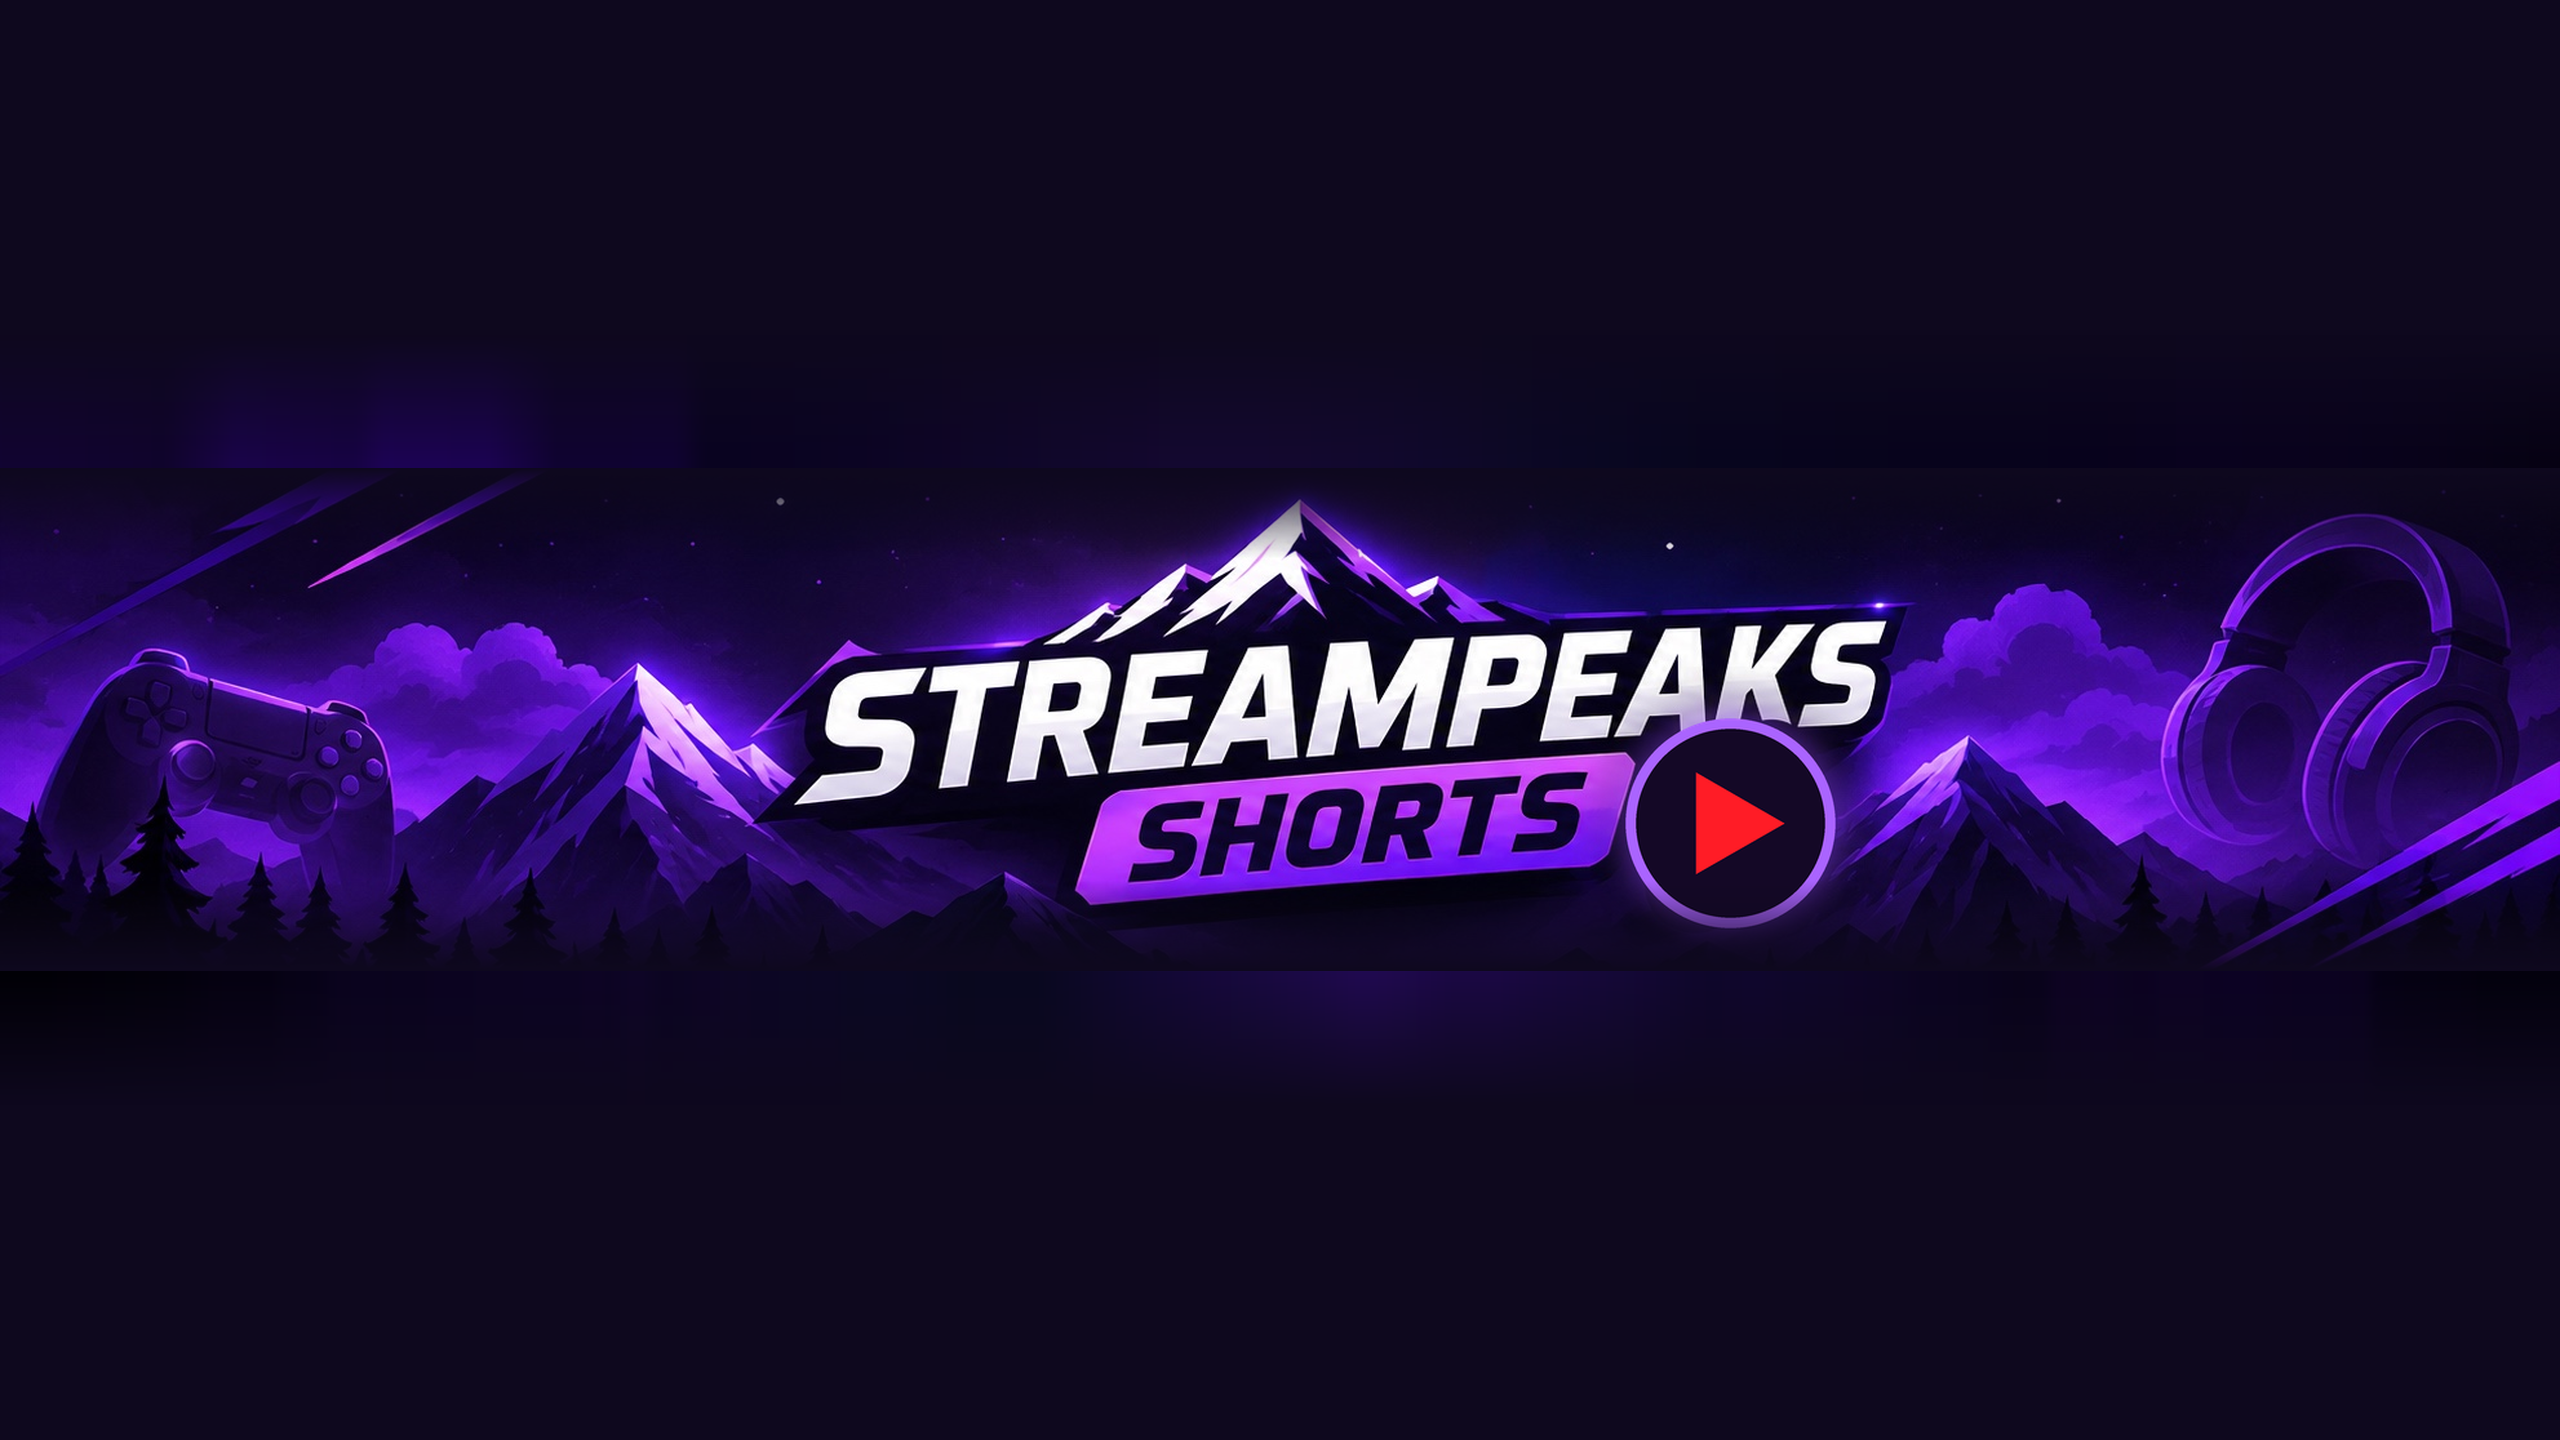
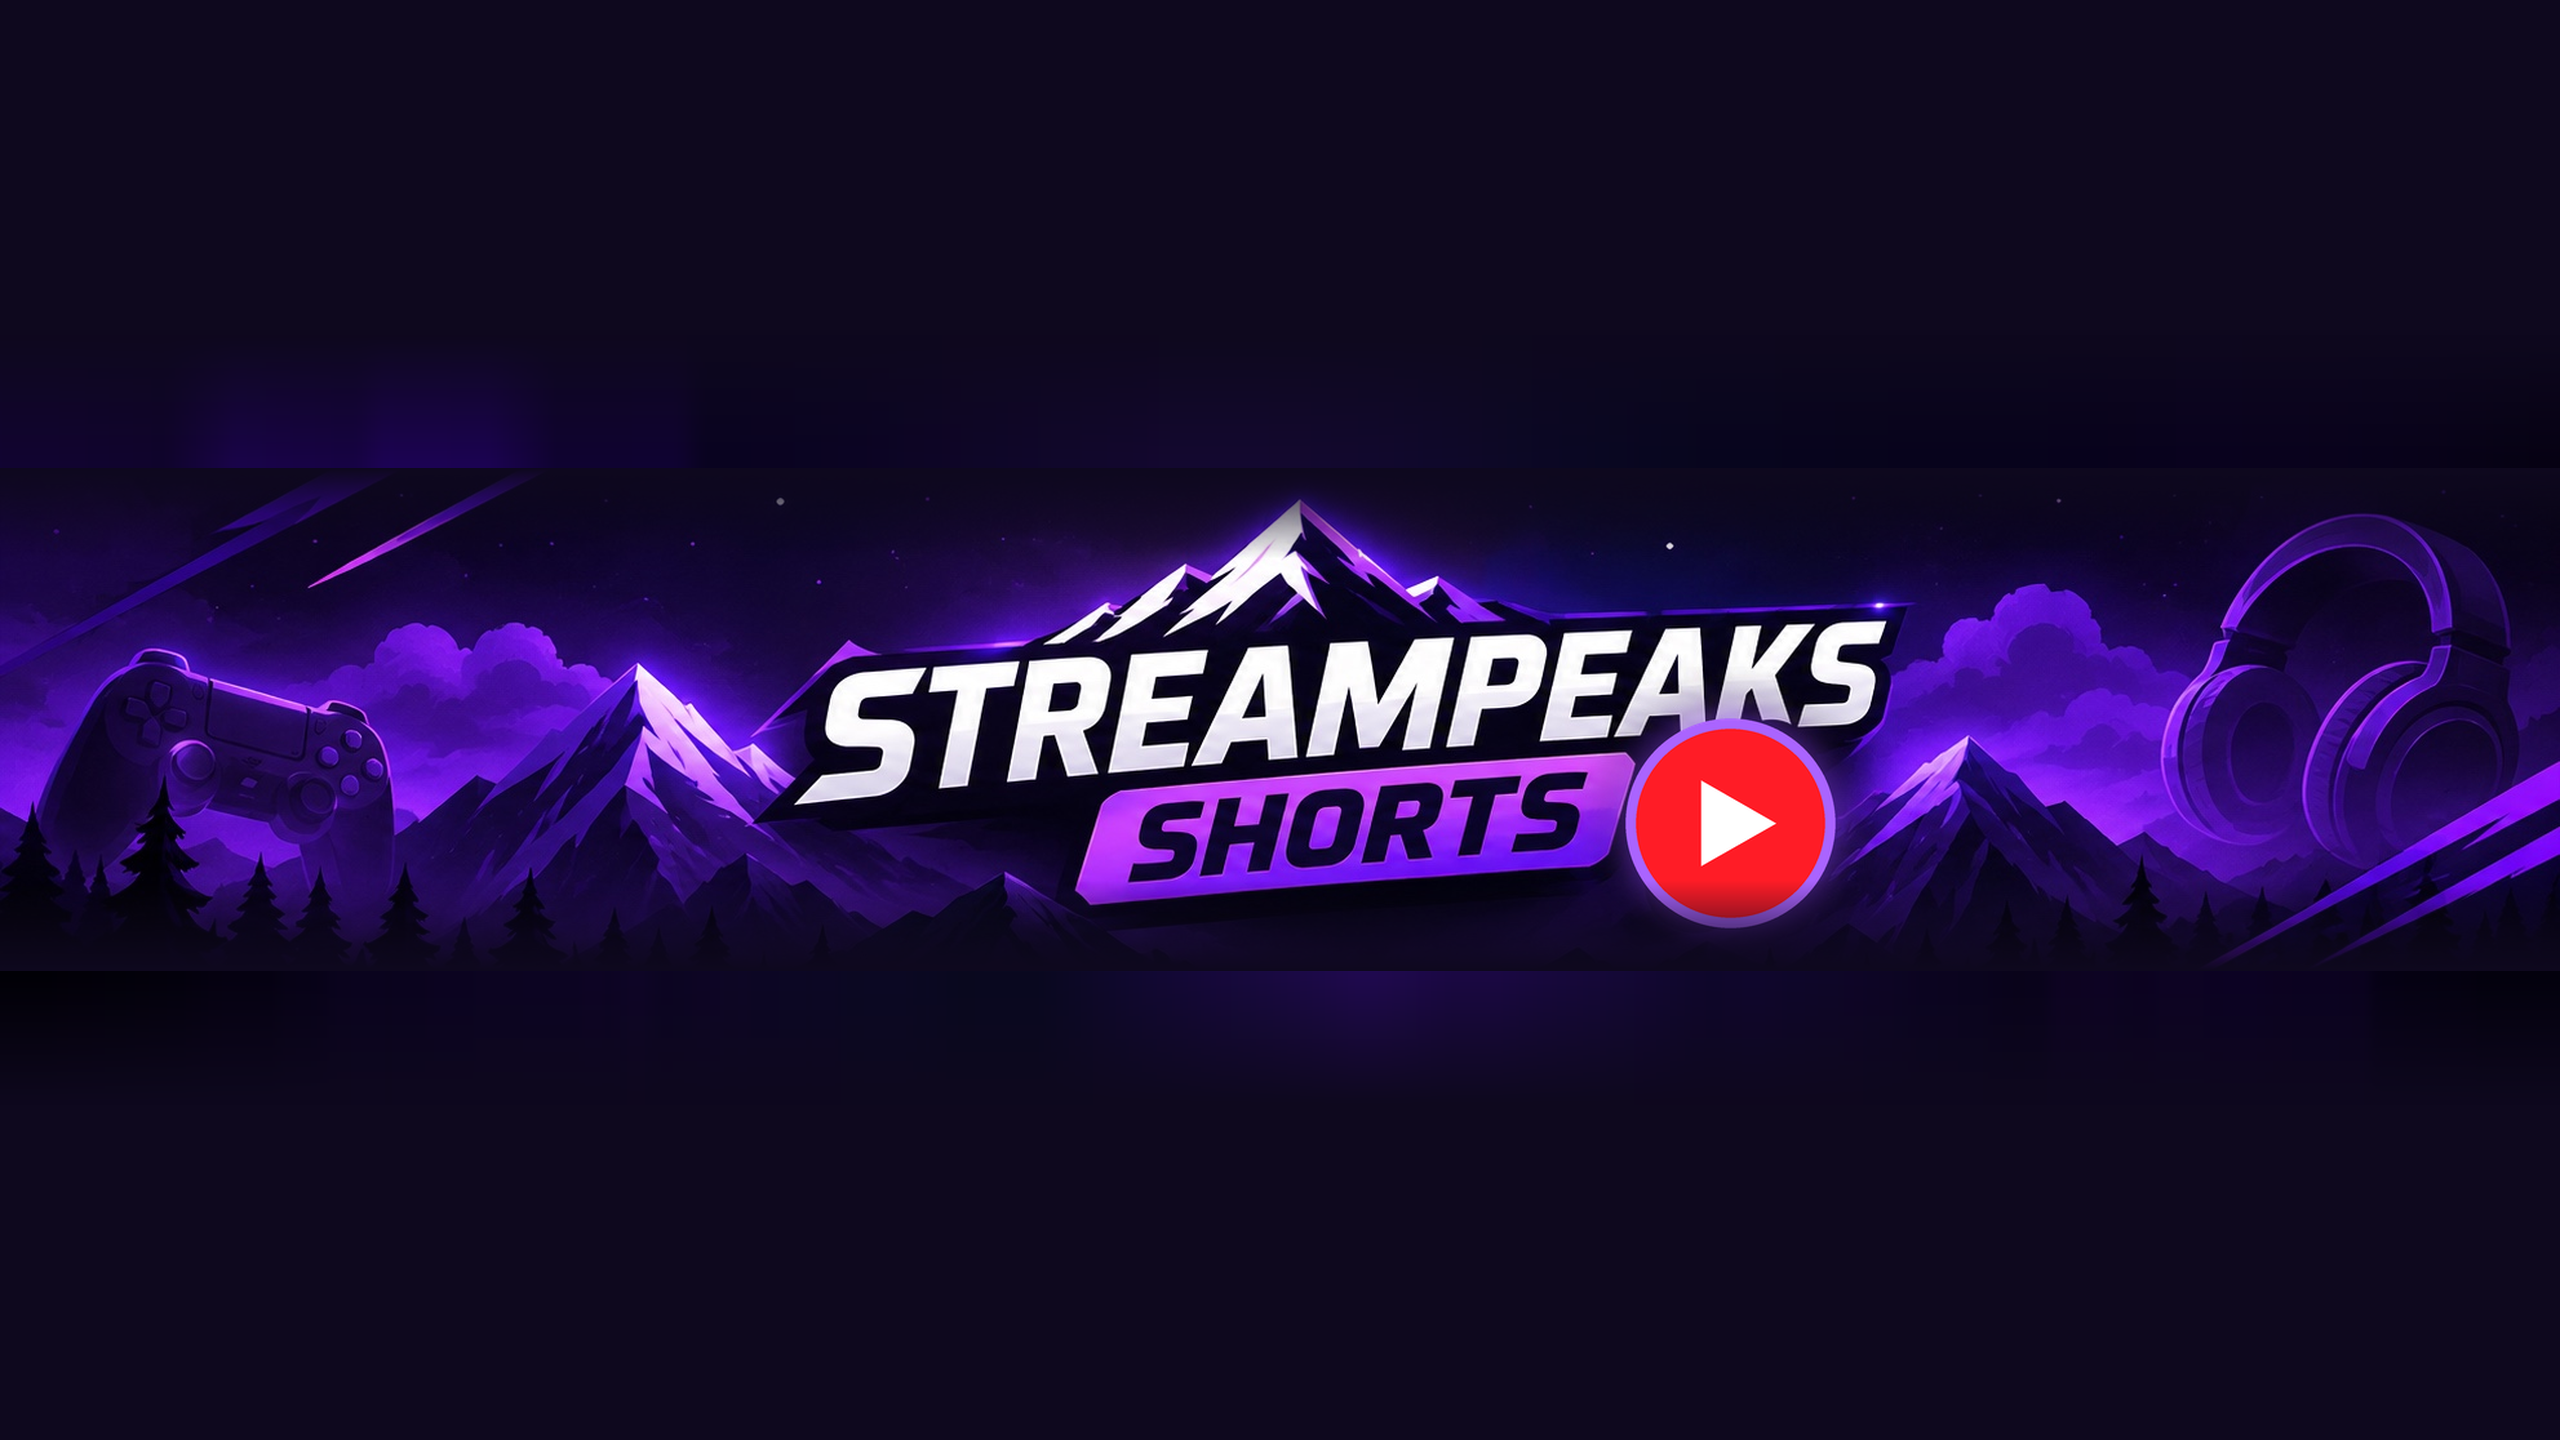
Branding: white play arrow on a red badge

Changed region(s): [[0.625, 0.5, 0.7188, 0.6562]]

diff --git a/gta6-clips/branding/fit_banner.py b/gta6-clips/branding/fit_banner.py
@@ -15,13 +15,13 @@ STRIP_END = 390                      # source rows 0-389 are the banner strip
 RING = (808, 396, 1174, 758)         # avatar circle bounds in the source
 
 # the source art had YouTube's Shorts logo; it is painted out and replaced with a
-# plain red play arrow on a dark badge (owner's choice: keeps the red contrast,
+# white play arrow on a red badge (owner's choice: keeps the red contrast,
 # no YouTube logo)
 LOGOS = [(1287, 206, 1395, 346), (962, 658, 1021, 734)]   # banner, avatar
 
 
 def play_badge(img, box):
-    """Dark round badge with a thin purple ring and a red play arrow, sized to
+    """Red round badge with a thin purple ring and a white play arrow, sized to
     cover the old logo's whole footprint (it overlapped the lettering)."""
     x0, y0, x1, y1 = box
     cx, cy = (x0 + x1) / 2, (y0 + y1) / 2
@@ -37,11 +37,11 @@ def play_badge(img, box):
     d = ImageDraw.Draw(layer)
     d.ellipse([o - r * k, o - r * k, o + r * k, o + r * k], fill=(170, 100, 255, 255))   # ring
     rr = r * 0.9
-    d.ellipse([o - rr * k, o - rr * k, o + rr * k, o + rr * k], fill=(20, 8, 38, 255))   # badge
-    t = r * 0.78                                                                          # arrow
+    d.ellipse([o - rr * k, o - rr * k, o + rr * k, o + rr * k], fill=(255, 28, 38, 255))  # red badge
+    t = r * 0.66                                                                          # arrow
     tri = [(o - t * 0.42 * k, o - t * 0.62 * k), (o - t * 0.42 * k, o + t * 0.62 * k),
            (o + t * 0.66 * k, o)]
-    d.polygon(tri, fill=(255, 28, 38, 255))
+    d.polygon(tri, fill=(255, 255, 255, 255))                                             # white arrow
     layer = layer.resize((S // k, S // k), Image.LANCZOS)
     img.paste(layer, (int(cx - S / k / 2), int(cy - S / k / 2)), layer)
 
